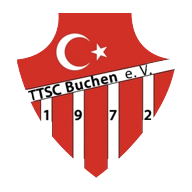
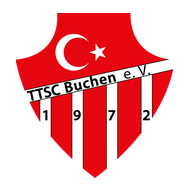
Sharp, complete crest everywhere (from the club website's 1600 px file), cleaner badge in graphics, no emoji buttons
Claude-Session: https://claude.ai/code/session_01LMmwD5xEKFRW223XXeXMEG

diff --git a/js/share.js b/js/share.js
@@ -39,7 +39,7 @@ function badge(ctx, x, y, r, name, us, img = null) {
   ctx.save(); ctx.beginPath(); ctx.arc(x, y, r, 0, Math.PI * 2); ctx.fillStyle = '#fff'; ctx.fill();
   ctx.lineWidth = 6; ctx.strokeStyle = us ? RED : '#2a2a2e'; ctx.stroke();
   if (!us && img) { const s = r * 1.45, k = Math.min(s / img.width, s / img.height), w = img.width * k, h = img.height * k; ctx.imageSmoothingQuality = 'high'; ctx.drawImage(img, x - w / 2, y - h / 2, w, h); }
-  else if (us && logo) { const h = r * 1.55, w = h * logo.width / logo.height; ctx.drawImage(logo, x - w / 2, y - h / 2, w, h); }
+  else if (us && logo) { const h = r * 1.32, w = h * logo.width / logo.height; ctx.drawImage(logo, x - w / 2, y - h / 2, w, h); }
   else { ctx.fillStyle = '#2a2a2e'; ctx.font = `700 ${r * 0.8}px ${COND}`; ctx.textAlign = 'center'; ctx.textBaseline = 'middle'; ctx.fillText(initials(name), x, y + r * 0.05); }
   ctx.restore();
 }
@@ -68,7 +68,7 @@ const homeAway = (e, us = 'TTSC BUCHEN') => (e.home ? [us, e.opponent.toUpperCas
 
 // ---------- MATCHDAY ----------
 export function matchday(canvas, e, { format = 'story', photo = null, opp = null } = {}) {
-  const W = 1080, H = format === 'story' ? 1920 : 1350, ctx = canvas.getContext('2d'), R = rng(e.id);
+  const W = 1080, H = format === 'story' ? 1920 : 1350, ctx = canvas.getContext('2d'), R = rng(e.id); ctx.imageSmoothingQuality = 'high';
   canvas.width = W; canvas.height = H;
   background(ctx, W, H, photo, R);
   // darken photo for legibility
@@ -108,7 +108,7 @@ export function matchday(canvas, e, { format = 'story', photo = null, opp = null
 
 // ---------- ENDSTAND ----------
 export function endstand(canvas, e, { format = 'story', photo = null, scorers = [], opp = null } = {}) {
-  const W = 1080, H = format === 'story' ? 1920 : 1350, ctx = canvas.getContext('2d'), R = rng(e.id + 'x');
+  const W = 1080, H = format === 'story' ? 1920 : 1350, ctx = canvas.getContext('2d'), R = rng(e.id + 'x'); ctx.imageSmoothingQuality = 'high';
   canvas.width = W; canvas.height = H;
   // frame: red and black brush strokes with the shield as watermark
   const g = ctx.createLinearGradient(0, 0, W, H); g.addColorStop(0, '#5E0512'); g.addColorStop(0.5, INK); g.addColorStop(1, '#8E0A1E');
@@ -117,7 +117,7 @@ export function endstand(canvas, e, { format = 'story', photo = null, scorers = 
     ctx.save(); ctx.globalAlpha = 0.1 + R() * 0.22; ctx.fillStyle = R() > 0.5 ? RED : '#000';
     ctx.translate(R() * W, R() * H); ctx.rotate(-0.55 + R() * 0.2); ctx.fillRect(-W, -6 - R() * 26, W * 2, 12 + R() * 50); ctx.restore();
   }
-  if (logo) { ctx.save(); ctx.globalAlpha = 0.2; const h = H * 0.5, w = h * logo.width / logo.height; ctx.drawImage(logo, -w * 0.55, H * 0.22, w, h); ctx.drawImage(logo, W - w * 0.45, H * 0.22, w, h); ctx.restore(); }
+  if (logo) { ctx.save(); ctx.globalAlpha = 0.12; const h = H * 0.5, w = h * logo.width / logo.height; ctx.drawImage(logo, -w * 0.55, H * 0.22, w, h); ctx.drawImage(logo, W - w * 0.45, H * 0.22, w, h); ctx.restore(); }
 
   // photo card
   const m = 80, top = format === 'story' ? 150 : 90, cw = W - 2 * m, ch = H - top - (format === 'story' ? 210 : 110), r = 70;

diff --git a/js/app.js b/js/app.js
@@ -68,6 +68,7 @@ const IC = {
   mail: 'M3 6h18v12H3zM3 6l9 7 9-7',
   warn: 'M12 4L3 20h18zM12 10v4M12 17h.01',
   share: 'M12 15V4M8 8l4-4 4 4M5 13v7h14v-7',
+  down: 'M12 4v11M8 11l4 4 4-4M5 19h14',
   qr: 'M4 4h6v6H4zM14 4h6v6h-6zM4 14h6v6H4zM14 14h2v2h-2zM18 18h2v2h-2zM14 18h2M18 14h2',
 };
 const ic = k => `<svg class="i" viewBox="0 0 24 24" aria-hidden="true"><path d="${IC[k]}"/></svg>`;
@@ -354,7 +355,7 @@ function viewStats(tab, u) {
     const rows = S.players().map(p => ({ p, s: S.playerStats(p.id) })).sort((a, b) => b.s[sortKey] - a.s[sortKey] || a.p.num - b.p.num);
     const cols = [['rate', t('attendance_rate')], ['m', t('matches')], ['min', t('minutes')], ['g', t('goals')], ['a', t('assists')], ['y', t('yellow')]];
     if (!rows.length) return `${nav}<div class="card empty">${t('no_app_players')}</div>${seasonTable()}`;
-    return `${nav}${S.isStaff(u) ? `<button class="btn block" data-act="csv">⬇ ${t('export_csv')}</button>` : ''}
+    return `${nav}${S.isStaff(u) ? `<button class="btn block" data-act="csv">${ic('down')} ${t('export_csv')}</button>` : ''}
       <section class="card tbl-wrap"><table class="tbl"><thead><tr><th></th>${cols.map(([k, l]) => `<th><button data-act="sort" data-v="${k}" class="${sortKey === k ? 'on' : ''}">${l}</button></th>`).join('')}</tr></thead>
       <tbody>${rows.map(({ p, s }) => `<tr><td><a href="#/p/${p.id}">${esc(p.name.split(' ')[0])} ${esc((p.name.split(' ')[1] || '')[0] || '')}.</a></td><td>${s.rate}%</td><td>${s.m}</td><td>${s.min}</td><td>${s.g}</td><td>${s.a}</td><td>${s.y}</td></tr>`).join('')}</tbody></table></section>
       ${seasonTable()}`;
@@ -733,7 +734,7 @@ async function graphicSheet(eid) {
     <div class="gfx-wrap"><canvas id="gc"></canvas></div>
     <label class="btn block"><input type="file" accept="image/*" id="gp" hidden>${ic('img')} ${t('gfx_photo')}</label>
     <p class="small muted">${t('gfx_hint')}</p>
-    <div class="sheet-btns"><button class="btn" id="gd">⬇ ${t('gfx_save')}</button><button class="btn primary" id="gs">↗ ${t('gfx_share')}</button></div>
+    <div class="sheet-btns"><button class="btn" id="gd">${ic('down')} ${t('gfx_save')}</button><button class="btn primary" id="gs">${ic('share')} ${t('gfx_share')}</button></div>
     <button class="btn danger-ghost block" data-act="close-sheet">${t('cancel')}</button>`, el => {
     const cv = $('#gc', el);
     const scorers = () => Object.entries(S.matchStats(e.id)).filter(([, s]) => s.g).map(([pid, s]) => ({ name: S.user(pid)?.name || '', g: s.g })).sort((a, b) => b.g - a.g);

diff --git a/sw.js b/sw.js
@@ -1,5 +1,5 @@
 // Offline support: app files are cached; new versions load in the background (network first).
-const CACHE = 'ttsc-team-v13';
+const CACHE = 'ttsc-team-v14';
 const FILES = ['./', 'index.html', 'css/app.css', 'js/app.js', 'js/store.js', 'js/i18n.js', 'js/config.js', 'js/remote.js', 'js/share.js', 'manifest.webmanifest', 'datenschutz.html', 'afis.html', 'assets/join-qr.svg', 'assets/fonts/Barlow-Regular.woff', 'assets/fonts/Barlow-Medium.woff', 'assets/fonts/Barlow-SemiBold.woff', 'assets/fonts/Barlow-Bold.woff', 'assets/fonts/BarlowCondensed-SemiBold.woff', 'assets/fonts/BarlowCondensed-Bold.woff', 'data/league.json', 'assets/logo.png', 'assets/icon-192.png', 'assets/games/pusula.png', 'assets/games/sancak.png', 'assets/games/petek.png', 'games/omuz/index.html', 'games/son-kare/index.html', 'games/kor-nokta/index.html', 'games/taktik/index.html'];
 self.addEventListener('install', e => { e.waitUntil(caches.open(CACHE).then(c => c.addAll(FILES))); self.skipWaiting(); });
 self.addEventListener('activate', e => { e.waitUntil(caches.keys().then(ks => Promise.all(ks.filter(k => k !== CACHE).map(k => caches.delete(k))))); self.clients.claim(); });
